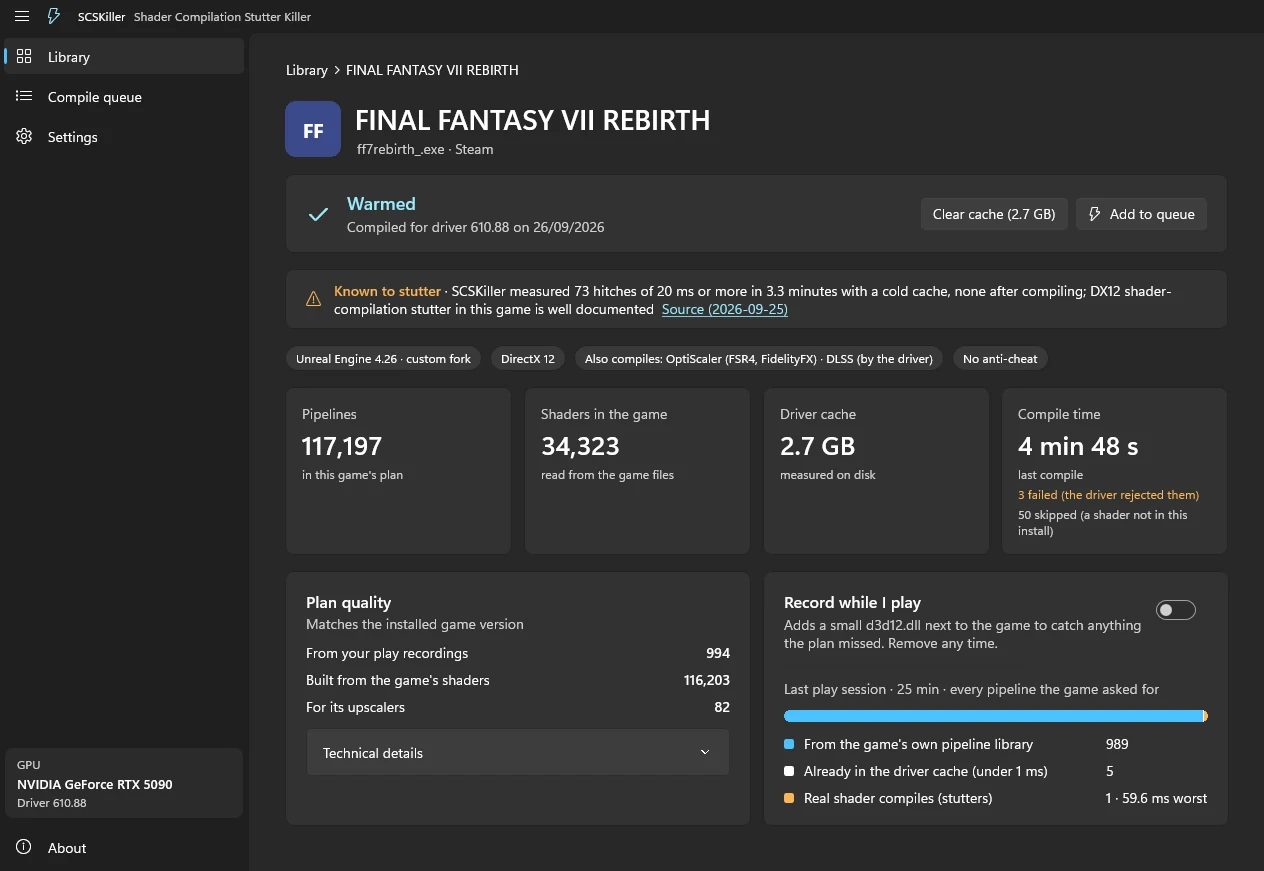
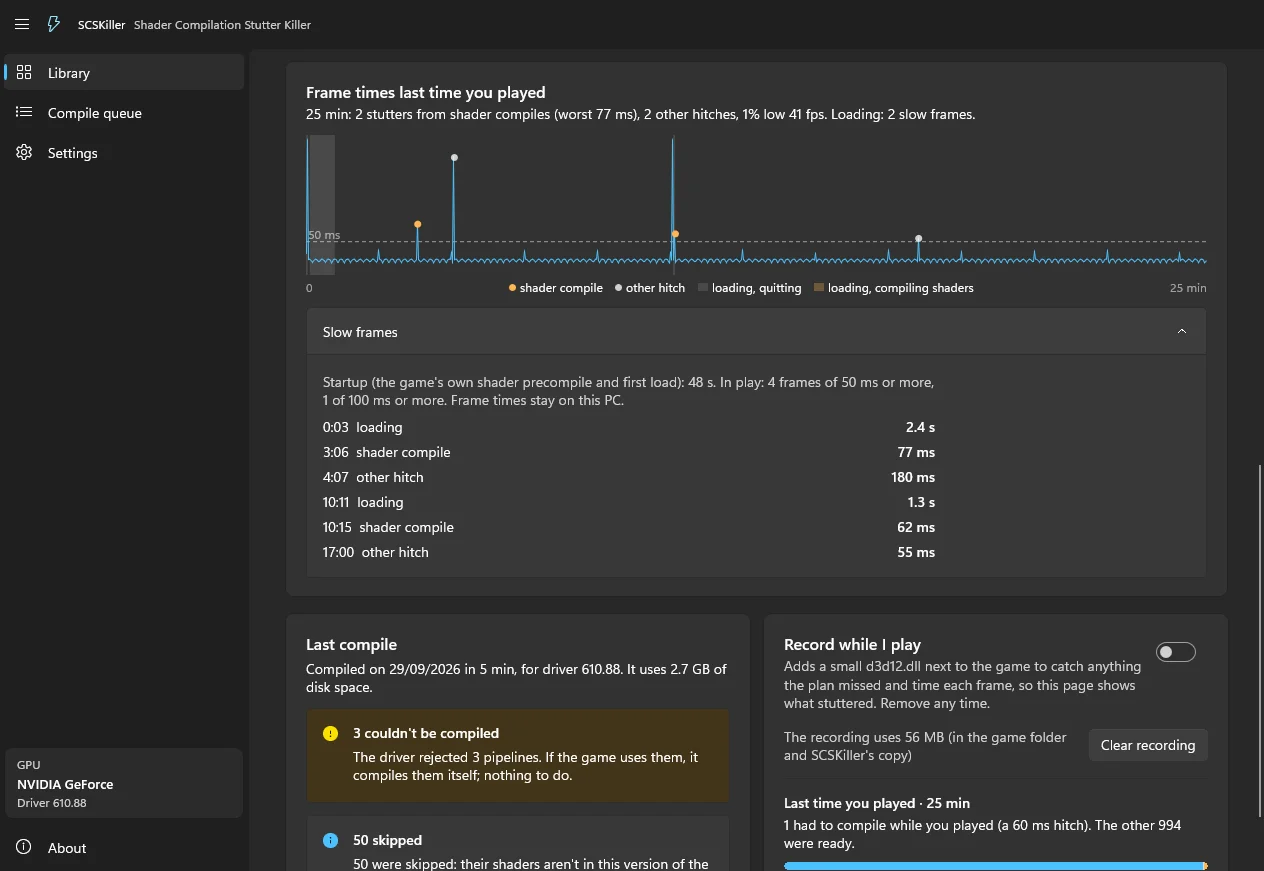
SCSKiller 1.0.0 is out: privacy and features for 1.0, download live

diff --git a/privacy/index.html b/privacy/index.html
@@ -36,12 +36,14 @@
   <div class="wrap">
     <article class="panel">
       <h1>Privacy policy</h1>
-      <p class="updated">Last updated: 28 September 2026</p>
+      <p class="updated">Last updated: 1 October 2026</p>
 
       <h2 id="short">In short</h2>
       <ul>
         <li>SCSKiller runs on your PC. Everything it does there works offline and without an account.</li>
         <li>Your data leaves your PC only when you sign in with Patreon, share recordings (opt-in), download from the community database, or update.</li>
+        <li>Every install downloads a few public lists from our server, with no identifier. What they contain is matched against your games on your PC.</li>
+        <li>The optional recorder writes its files next to the game. Frame times stay on your PC and are never uploaded.</li>
         <li>Once a day the app tells our server that an install is active, with no identifier. You can turn that off in Settings.</li>
         <li>We never receive your name or email address. Shared recordings are anonymous and never linked to your account.</li>
         <li>This website has no cookies, analytics or trackers.</li>
@@ -52,8 +54,13 @@
 
       <h2 id="app">When the app goes online</h2>
       <table>
-        <tr><th scope="row">Welcome message</th><td>On first start, the app downloads its welcome text from our server. The request carries no account or device id.</td></tr>
-        <tr><th scope="row">Known-stutter list</th><td>About once a day, the app downloads the list of games known to stutter from our server. The request carries no account or device id.</td></tr>
+        <tr><th scope="row">Public lists</th><td>Every install downloads these from our server, signed in or not. The requests carry no account or device id.
+          <ul>
+            <li>The community database's list of the game builds it covers. The app matches it against your games on your PC; which games you have is never sent.</li>
+            <li>The welcome text, on first start.</li>
+            <li>The list of games known to stutter, about once a day.</li>
+            <li>The list of engine versions SCSKiller has tested, about once a day.</li>
+          </ul></td></tr>
         <tr><th scope="row">Daily active check</th><td>Once a day, the app tells our server that an install is active. The message contains the app's version, your GPU vendor (NVIDIA, AMD or other) and three yes/no flags: whether this is the install's first check ever, its first this week, and its first this month. The app works those flags out on your PC from the date of its last check. The message contains no identifier: no install id, no account, nothing about your PC or your games. The server adds it to a counter for that day, version and GPU vendor and keeps only those totals. Your IP address is used in memory to limit how many checks one address can send, and is never stored. On by default; turn it off in Settings ("Send an anonymous daily check") and nothing is sent.</td></tr>
         <tr><th scope="row">Stable updates</th><td>Come from GitHub Releases. GitHub's privacy statement applies.</td></tr>
         <tr><th scope="row">Beta and alpha builds</th><td>Come from our server, for signed-in supporters.</td></tr>
@@ -81,9 +88,11 @@
         <li>roughly which parts of the game you played;</li>
         <li>the names of middleware DLLs next to the game, which can reveal mods such as upscaler mods.</li>
       </ul>
-      <p>Not sent: your driver version, file paths, the game's exe name or your Windows user name.</p>
+      <p>Not sent: your driver version, file paths, the game's exe name, your Windows user name or your frame times.</p>
       <p>Uploads use a random id for this install, which you can reset. They are never linked to your Patreon account, even when you are signed in.</p>
 
+      <h2 id="recorder">The recorder</h2>
+      <p>The recorder is never used in games with anti-cheat, and you can turn it off in Settings, for all games or one. In a game where it is on, it writes its files next to the game: <code>d3d12.dll</code>, its settings file, the recording, a log and the game's frame times. The app reads them on your PC. Frame times are never uploaded. Turning the recorder off removes the <code>d3d12.dll</code> and the settings file; uninstalling SCSKiller removes its files from every game folder.</p>
       <h2 id="logs">Server logs</h2>
       <ul>
         <li>Connection logs keep a truncated IP address (the last part removed) for 7 days, for security and rate limiting.</li>

diff --git a/index.html b/index.html
@@ -136,11 +136,12 @@
             <li>Games grouped by store</li>
             <li>Shader and pipeline counts, cache size, compile time</li>
             <li>A status such as <em>Ready to compile</em> or <em>Warmed</em></li>
+            <li>A Play button that starts the game through its store</li>
           </ul>
         </div>
         <figure class="window">
           <img src="/assets/img/library.webp" width="1264" height="871" loading="lazy" decoding="async"
-               alt="SCSKiller's library: games grouped by store, with shader and pipeline counts, cache size, compile time and a status such as Ready to compile or Warmed.">
+               alt="SCSKiller's library: games grouped by store, with shader and pipeline counts, cache size, compile time and a status such as Needs rebuilding or Warmed, and Play buttons.">
           <svg class="caps" viewBox="0 0 138 34" aria-hidden="true"><path d="M18 17h10M65 12h9v9h-9zM110 12l10 10M120 12l-10 10"/></svg>
         </figure>
       </div>
@@ -151,6 +152,7 @@
           <h3>Plan</h3>
           <p class="lead">Works out which pipelines each game will build.</p>
           <ul class="spec">
+            <li>Frame times of your last session, with the shader stutters told apart from other hitches (recorder on)</li>
             <li>Warmed for the current driver</li>
             <li>Pipeline and shader counts, cache size, compile time</li>
             <li>The optional recorder switch</li>
@@ -159,7 +161,7 @@
         </div>
         <figure class="window">
           <img src="/assets/img/detail.webp" width="1264" height="871" loading="lazy" decoding="async"
-               alt="A game's detail page: warmed for the current driver, pipeline and shader counts, cache size, compile time, and the optional recorder switch.">
+               alt="A game's page: the frame times of the last session, with shader compile stutters marked apart from other hitches and loading, the list of slow frames, and the optional recorder switch.">
           <svg class="caps" viewBox="0 0 138 34" aria-hidden="true"><path d="M18 17h10M65 12h9v9h-9zM110 12l10 10M120 12l-10 10"/></svg>
         </figure>
       </div>
@@ -310,7 +312,7 @@
         <details open><summary>Anti-cheat games?</summary><p>SCSKiller never launches them, injects into them, or gives them the recorder. It only reads their files.</p></details>
         <details><summary>Does it run while I play?</summary><p>It doesn't need to. The game reads the driver's cache on its own.</p></details>
         <details><summary>Will Windows warn me?</summary><p>Probably, the first time. The first release isn't code-signed yet; signing is in progress. <a href="#dl-notice" data-notice>Show me</a></p></details>
-        <details><summary>Does it touch game files or drivers?</summary><p>It doesn't patch either. Only the optional recorder adds a small <code>d3d12.dll</code> and its settings file to a game folder, and turning it off removes both.</p></details>
+        <details><summary>Does it touch game files or drivers?</summary><p>It doesn't patch either. Only the optional recorder touches a game folder: it installs a small <code>d3d12.dll</code> and its settings file, and writes its recording, a log and the frame times next to the game. Turning it off removes what it installed; uninstalling SCSKiller removes the rest.</p></details>
         <details><summary>What about driver updates?</summary><p>An update clears the shader cache. SCSKiller notices and compiles again, on its own if you let it.</p></details>
         <details><summary>What about Intel GPUs?</summary><p>Not supported yet: I don't have one to test on. If you'd like to sponsor an Intel Arc GPU, get in touch at <a href="mailto:contact@scskiller.com">contact@scskiller.com</a>.</p></details>
         <details><summary>Do I need an account?</summary><p>No. Signing in with Patreon only adds the <a href="/support/">supporter features</a>.</p></details>

diff --git a/assets/site.js b/assets/site.js
@@ -53,7 +53,7 @@
 
   // Download. One flag: RELEASED = true makes every [data-dl] button open the notice about the unsigned build, which
   // then downloads from DOWNLOAD_URL; false puts the "Coming soon" labels back.
-  const RELEASED = false;
+  const RELEASED = true;
   const DOWNLOAD_URL = 'https://github.com/BlueHeisenberg/SCSKiller/releases/latest';
   const released = RELEASED;
   document.documentElement.classList.toggle('soon', !released);
